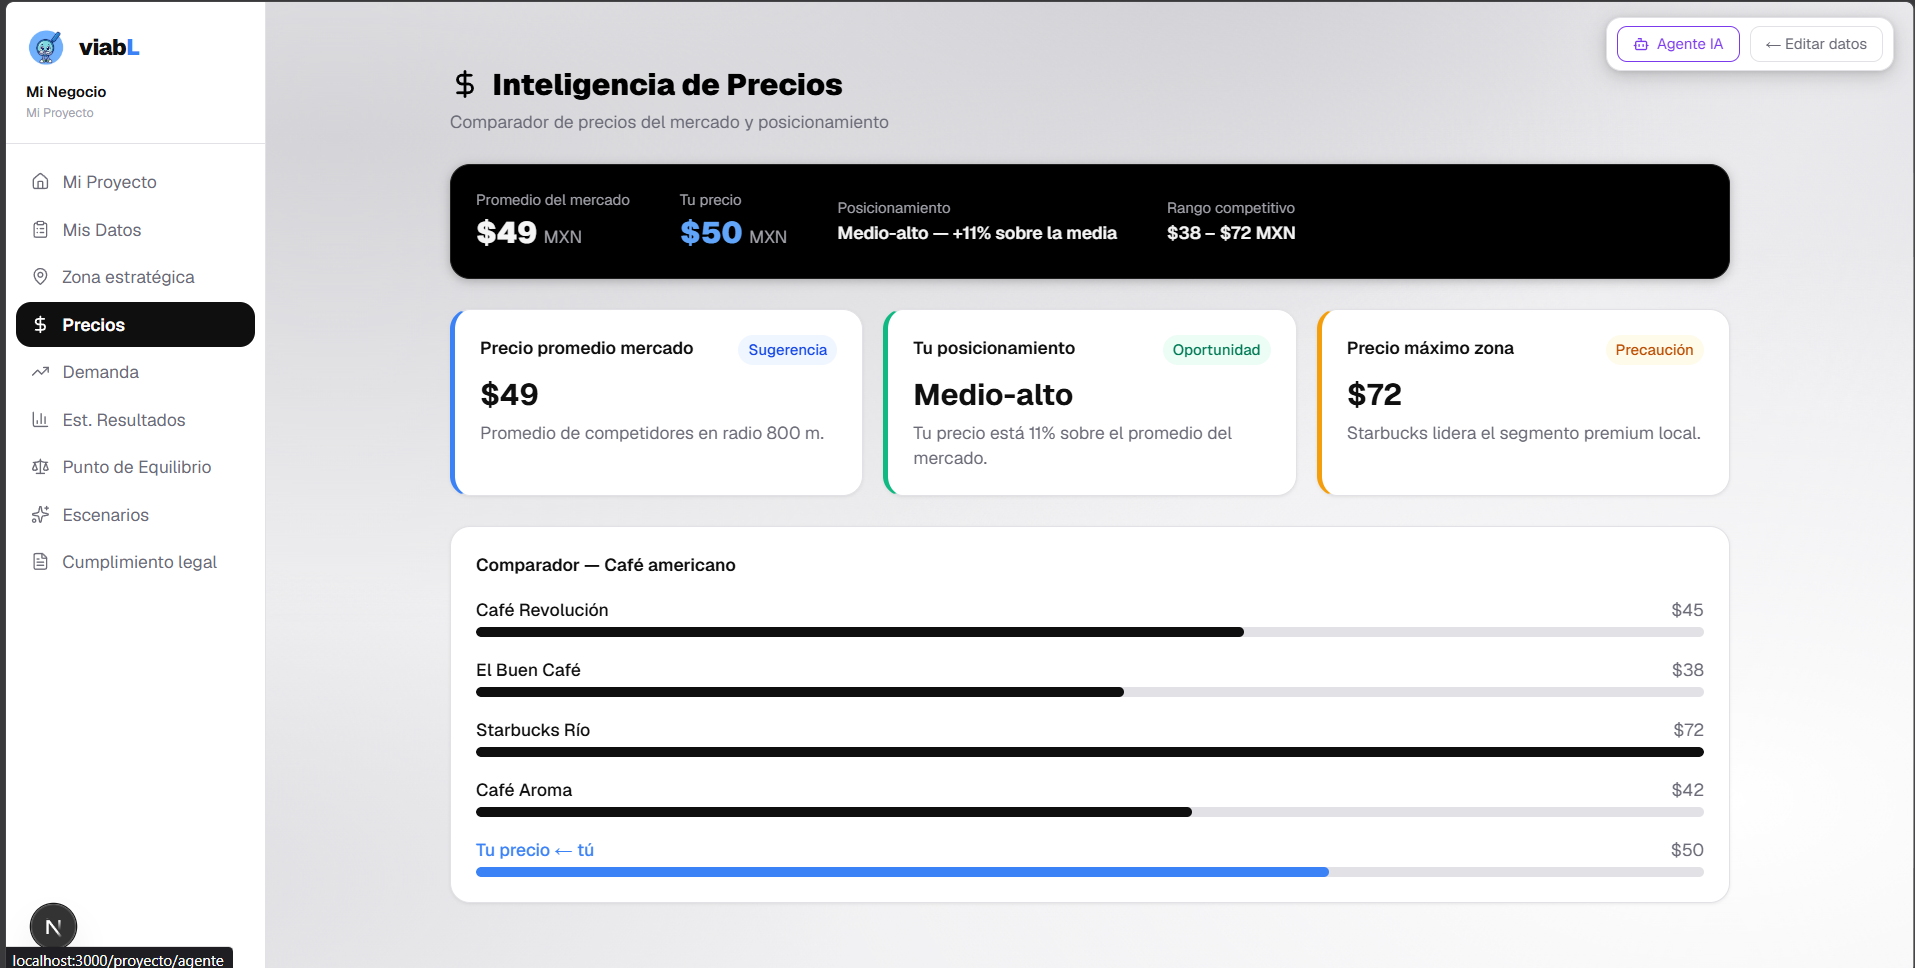
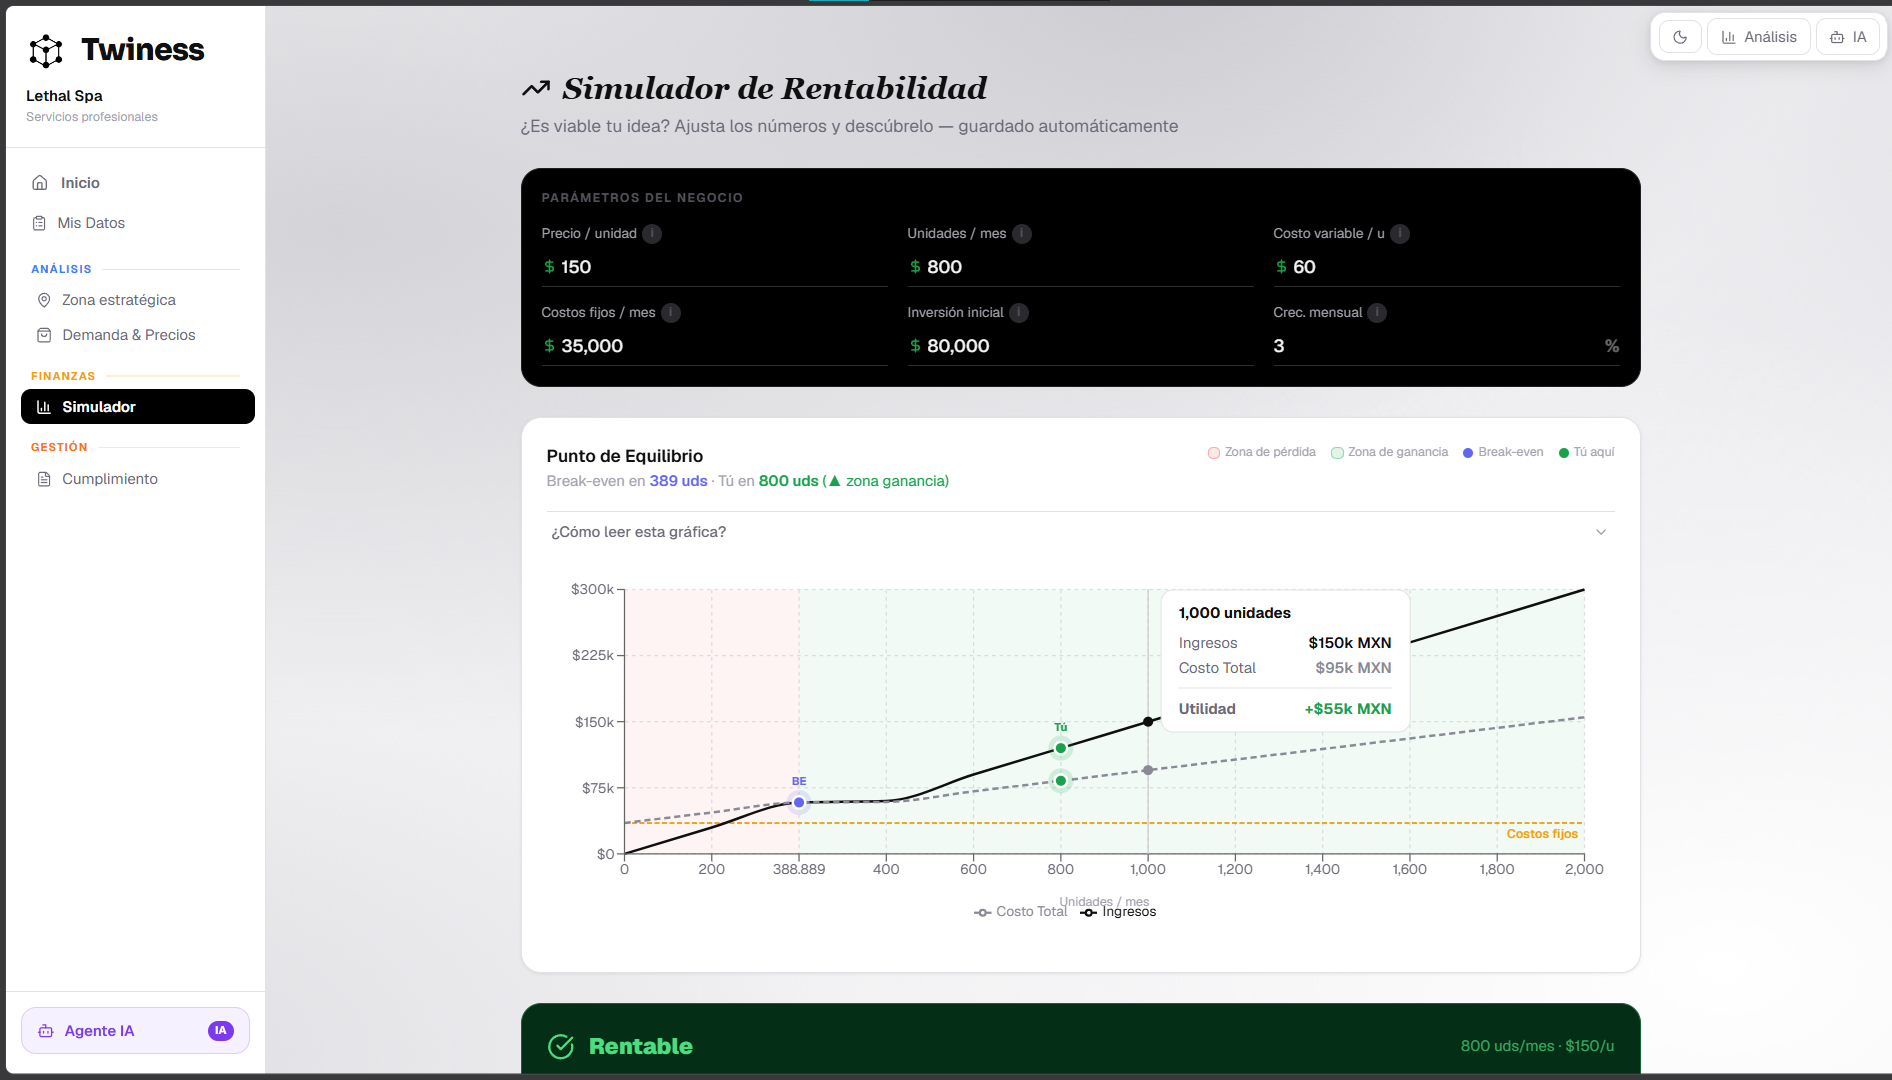
Cambio de footage - Olivares

diff --git a/originalBluePrint.md b/originalBluePrint.md
@@ -11,7 +11,7 @@ Plataforma web que permite a emprendedores simular y analizar su negocio antes d
 - IA del producto: watsonx.ai (IBM Cloud) como motor del agente
 - IDE de desarrollo: IBM BOB (cada integrante con su propio BOB sobre el repositorio compartido)
 - Mapas: Leaflet + OpenStreetMap + Google Places API (competencia y POIs) + Google Routes API (accesibilidad)
-- Datos: INEGI (demografía, nivel socioeconómico), Overpass/OSM (POIs), Google Places (negocios), RETyS (trámites)
+- Datos: INEGI (demografía, nivel socioeconómico), Overpass/OSM (POIs), Google Places (negocios), RETyS (tnrámites)
 
 **Ciudad MVP (placeholder):** Tijuana, B.C., México
 **Tipos de negocio iniciales (placeholder):** Cafetería, Barbería, Tienda de conveniencia
